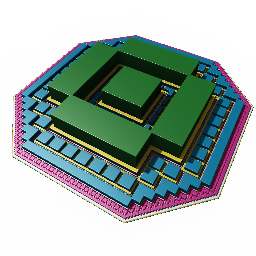
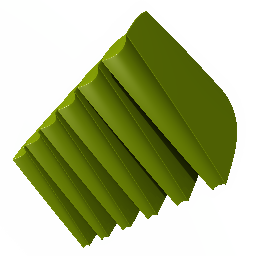
difs_box_diagonal_v3.png

diff --git a/mandelbulber2/src/fractal_formulas.cpp b/mandelbulber2/src/fractal_formulas.cpp
@@ -17323,7 +17323,7 @@ void TransfSurfBoxFoldV24dIteration(CVector4 &z, const sFractal *fractal, sExten
 
 /**
  * DIFSBoxV1Iteration  fragmentarium code, mdifs by knighty (jan 2012)
- *
+ * DIFS = direct distance iterated function (primitives) system
  */
 void DIFSBoxV1Iteration(CVector4 &z, const sFractal *fractal, sExtendedAux &aux)
 {
@@ -19097,14 +19097,6 @@ void TransfDIFSBoxV3Iteration(CVector4 &z, const sFractal *fractal, sExtendedAux
 		if (fractal->transformCommon.functionEnabledAxFalse)
 			k *= aux.i + fractal->transformCommon.offset1;
 
-		if (fractal->transformCommon.functionEnabledBxFalse)
-			k *= aux.i * aux.i + fractal->transformCommon.offset1;
-
-		// if (fractal->transformCommon.functionEnabledAyFalse)
-		//				k += aux.i * aux.i + fractal->transformCommon.offset1;
-		// if (fractal->transformCommon.functionEnabledByFalse)
-		//				k += aux.i * aux.i + fractal->transformCommon.offset1;
-
 		double swap;
 		if (!fractal->transformCommon.functionEnabledOFalse)
 			swap = zc.x;
@@ -19112,7 +19104,6 @@ void TransfDIFSBoxV3Iteration(CVector4 &z, const sFractal *fractal, sExtendedAux
 			swap = zc.z;
 
 		if (fractal->transformCommon.functionEnabledAzFalse) swap = fabs(swap);
-		if (fractal->transformCommon.functionEnabledBzFalse) swap *= swap;
 
 		if (!fractal->transformCommon.functionEnabledOFalse)
 		{
@@ -19325,7 +19316,7 @@ void TransfDIFSGridV2Iteration(CVector4 &z, const sFractal *fractal, sExtendedAu
 		double k = fractal->transformCommon.angle0;
 
 		if (fractal->transformCommon.functionEnabledAxFalse)
-			k *= (aux.i - 1.0) + fractal->transformCommon.offset1;
+			k *= aux.i + fractal->transformCommon.offset1;
 
 		double swap;
 		if (!fractal->transformCommon.functionEnabledOFalse)
